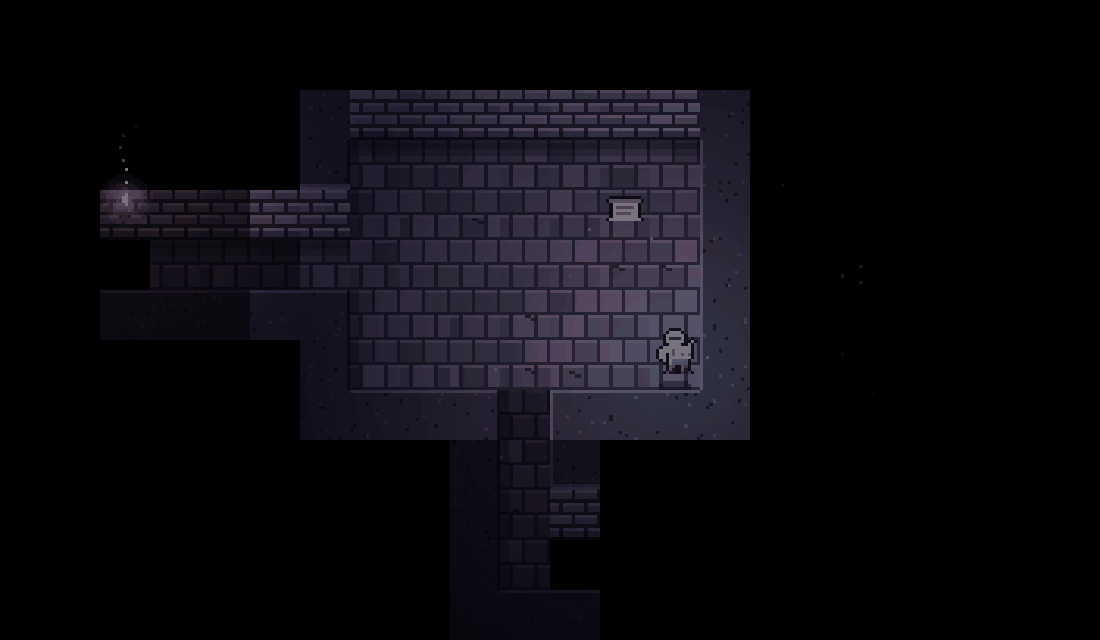
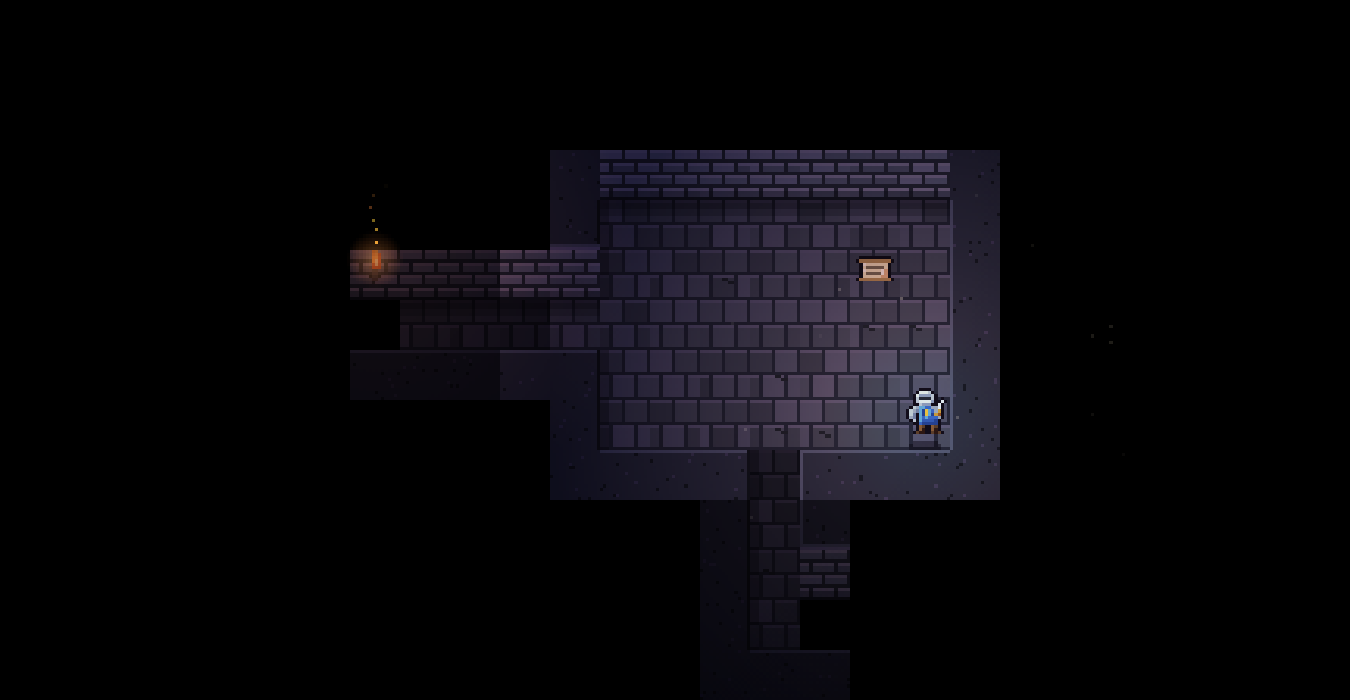
Use a full-colour title screen backdrop
Claude-Session: https://claude.ai/code/session_01RnCHNWH36ygsM3y5AyFeQs

Changed region(s): [[0.0927, 0.125, 0.7418, 0.9375]]

diff --git a/src/css/menu.css b/src/css/menu.css
@@ -11,7 +11,7 @@
         linear-gradient(90deg, rgba(11, 10, 15, 0.97) 0%, rgba(11, 10, 15, 0.9) 34%, rgba(11, 10, 15, 0.25) 75%),
         url('../../assets/menu-background.png');
     background-size: cover;
-    background-position: 70% 50%;
+    background-position: 75% 55%;
     image-rendering: pixelated;
     display: flex;
     align-items: center;
